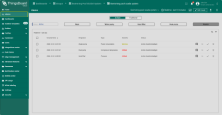
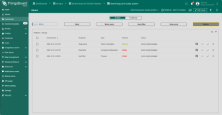
Fixed broken health-care link in use-cases page, fixed wrong image in scada docs

Changed region(s): [[0.0, 0.0783, 0.1351, 0.8609], [0.8649, 0.1826, 1.0, 0.2348]]

diff --git a/use-cases/scada-health.sass b/use-cases/scada-health.sass
@@ -223,13 +223,13 @@
         z-index: 2
         cursor: ew-resize
         width: 1px
-        border: 1px solid black
+        border: 1px solid grey
         box-shadow: #fff 0 0 11px 8px
         animation: 0.7s linear infinite alternate swingSlider
         div
           height: 100%
-          width: 8px
-          margin-left: -4px
+          width: 10px
+          margin-left: -5px
         &:before
           position: absolute
           top: 50%

diff --git a/iot-use-cases.md b/iot-use-cases.md
@@ -266,10 +266,10 @@ Should you have any comments or questions please feel free to [Contact Us](/docs
             <div class="item-description">
                 <h2>Health Care: Smart Assisted Living Solution</h2>
                 <p>Track patient health metrics in real time and immediately notify medical professionals of critical changes. This solution integrates connected devices, data analytics, and automated alerts to create a seamless experience for caregivers and administrators, ensuring timely responses and a higher quality of care.</p>
-                <a class="read-more-button" href="/usecases/health-care/">Health Care use case<img class="arrow first" src="/images/pe/read-more-arrow.svg" alt="More information about Health Care arrow"><img class="arrow second" src="/images/pe/read-more-arrow.svg" alt=""><img class="arrow third" src="/images/pe/read-more-arrow.svg" alt=""></a>
+                <a class="read-more-button" href="/use-cases/health-care/">Health Care use case<img class="arrow first" src="/images/pe/read-more-arrow.svg" alt="More information about Health Care arrow"><img class="arrow second" src="/images/pe/read-more-arrow.svg" alt=""><img class="arrow third" src="/images/pe/read-more-arrow.svg" alt=""></a>
             </div>
             <div class="item-image-container">
-                <a class="img-button" href="/usecases//health-care/">
+                <a class="img-button" href="/use-cases/health-care/">
                     <div class="overlay">
                         <div class="eye">
                             <img src="/images/eye-icon.svg" alt="See more about Health Care">Health Care overview
